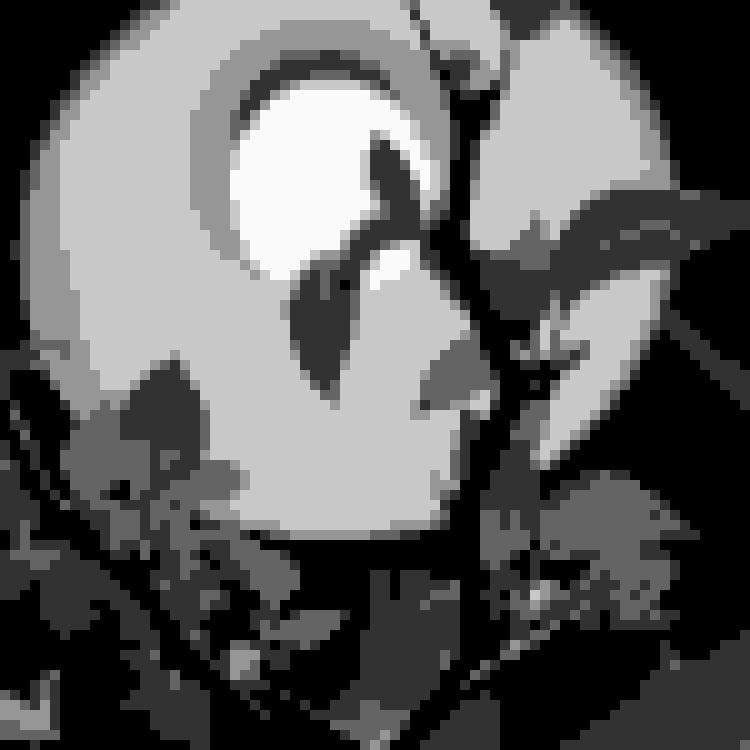
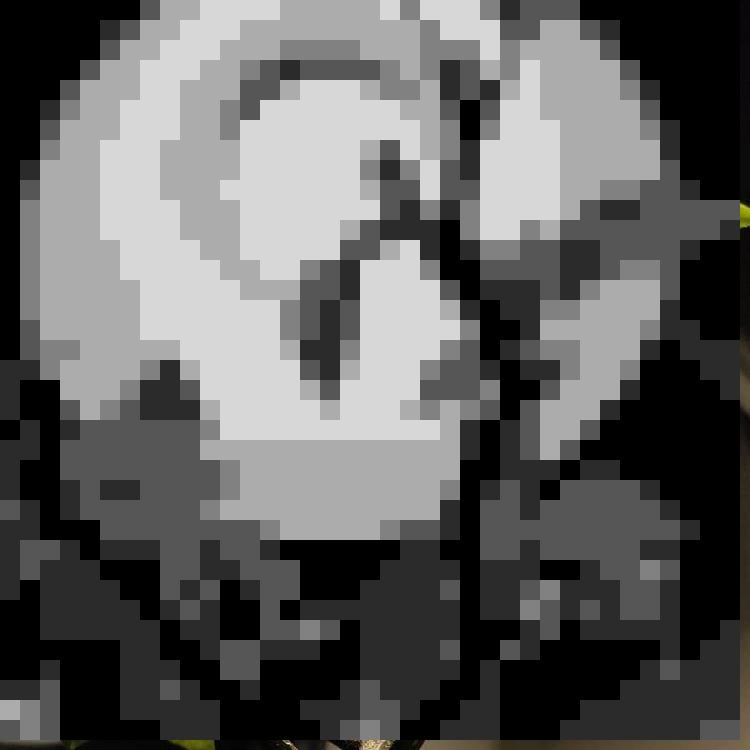
2 этап

diff --git a/filter.py b/filter.py
@@ -1,28 +1,55 @@
 from PIL import Image
 import numpy as np
-img = Image.open("img2.jpg")
-arr = np.array(img)
-rows = len(arr)
-cols = len(arr[1])
-i = 0
-while i <= rows - 10:
-    j = 0
-    while j <= cols - 10:
-        s = 0
-        for r in range(i, i + 10):
-            for c in range(j, j + 10):
-                clr_r = arr[r][c][0]
-                clr_g = arr[r][c][1]
-                clr_b = arr[r][c][2]
-                M = (clr_r // 3 + clr_g // 3 + clr_b // 3)
-                s += M
-        s = int(s // 100)
-        for r in range(i, i + 10):
-            for c in range(j, j + 10):
-                arr[r][c][0] = int(s // 50) * 50
-                arr[r][c][1] = int(s // 50) * 50
-                arr[r][c][2] = int(s // 50) * 50
-        j = j + 10
-    i = i + 10
-res = Image.fromarray(arr)
-res.save('res.jpg')
+from math import ceil
+
+def read(filename):
+    img = Image.open(filename)
+    return np.array(img)
+
+
+def get_mean(array, px_per_brick, row_cell, col_cell):
+    mean = 0
+    for row in range(row_cell, row_cell + px_per_brick):
+        for col in range(col_cell, col_cell + px_per_brick):
+            clr_r = array[row][col][0]
+            clr_g = array[row][col][1]
+            clr_b = array[row][col][2]
+            M = (clr_r // 3 + clr_g // 3 + clr_b // 3)
+            mean += M
+    return int(mean // (px_per_brick ** 2))
+
+
+def update_array(array, row_cell, col_cell, px_per_brick, px_in_grade):
+    mean = get_mean(array, px_per_brick, row_cell, col_cell)
+    for row in range(row_cell, row_cell + px_per_brick):
+        for col in range(col_cell, col_cell + px_per_brick):
+            array[row][col][0] = int(mean // px_in_grade) * px_in_grade
+            array[row][col][1] = int(mean // px_in_grade) * px_in_grade
+            array[row][col][2] = int(mean // px_in_grade) * px_in_grade
+
+
+def to_grayscale(array, px_per_brick, grades):
+    rows = len(array)
+    cols = len(array[1])
+    px_in_grade = ceil(255 / grades)
+    row_cell = 0
+    
+    while row_cell <= rows - px_per_brick:
+        col_cell = 0
+        while col_cell <= cols - px_per_brick:
+            update_array(array, row_cell, col_cell, px_per_brick, px_in_grade)
+            col_cell = col_cell + px_per_brick
+        row_cell = row_cell + px_per_brick
+    return array
+
+
+def write(array, filename):
+    result = Image.fromarray(array)
+    result.save(filename)
+
+
+if __name__ == "__main__":
+    arr = read("img2.jpg")
+    arr = to_grayscale(arr, 20, 6)
+    write(arr, "res.jpg")
+
